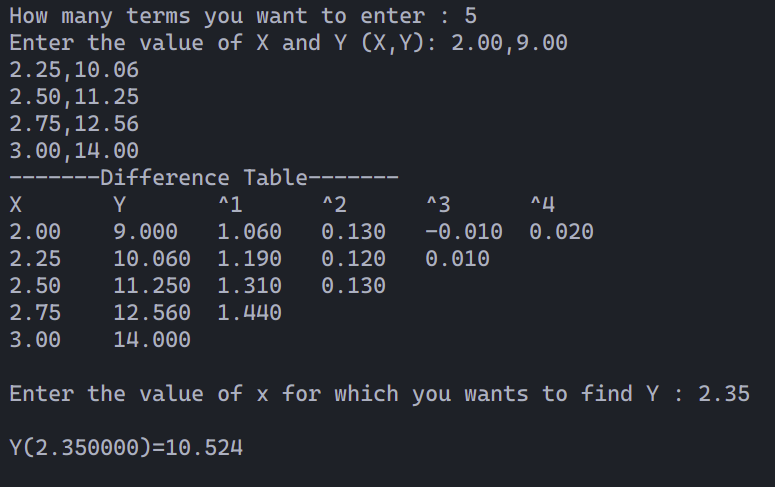
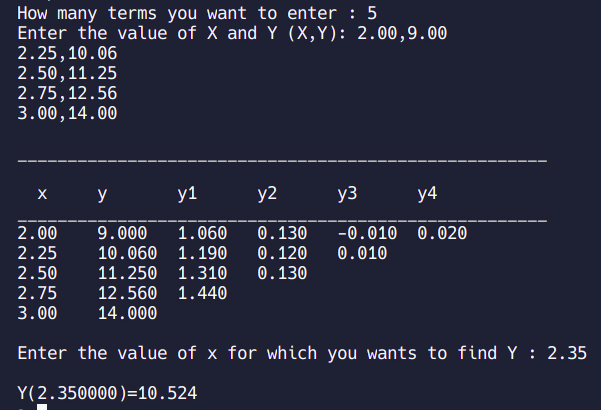
Add Numerical Methods

Changed region(s): [[0.0, 0.0, 0.9884, 1.0]]

diff --git a/Numerical_Methods/codes/Q07.c b/Numerical_Methods/codes/Q07.c
@@ -1,0 +1,57 @@
+/*
+Write a C Program to find the root of the equation X^3 - x -3 = 0 using Newton Raphson Mehtod.
+*/
+
+#include<stdio.h>
+#include<math.h>
+#include<stdlib.h>
+
+#define  f(x)  pow(x,3) - x - 3
+#define  g(x)   3*pow(x,2) - 1
+
+int main()
+{
+	 float x0, x1, f0, f1, g0, e;
+	 int step = 1, N;
+
+	 printf("\nEnter initial guess: ");
+	 scanf("%f", &x0);
+	 printf("Enter tolerable error: ");
+	 scanf("%f", &e);
+	 printf("Enter maximum iteration: ");
+	 scanf("%d", &N);
+	 /* Implementing Newton Raphson Method */
+	 printf("\nStep\t\tx0\t\t\tf(x0)\t\tx1\t\tf(x1)\n");
+	 do
+	 {
+		  g0 = g(x0);
+		  f0 = f(x0);
+		  if(g0 == 0.0)
+		  {
+			   printf("Mathematical Error.");
+			   exit(0);
+		  }
+
+		
+		  x1 = x0 - f0/g0;
+
+		
+		  printf("%d\t\t%f\t%f\t%f\t%f\n",step,x0,f0,x1,f1);
+		  x0 = x1;
+		  
+		  step = step+1;
+		
+		  if(step > N)
+		  {
+			   printf("Not Convergent.");
+			   exit(0);
+		  }
+		  
+		  f1 = f(x1);
+		  
+	 }while(fabs(f1)>e);
+	
+	 printf("\nRoot is: %f", x1);
+  printf ("\n");
+  return 0;
+}

diff --git a/Numerical_Methods/codes/Q06.c b/Numerical_Methods/codes/Q06.c
@@ -1,0 +1,53 @@
+/* Write a C Program to find the root of the equation
+X^3 + X^2 + X + 7 = 0 using Bisection Method
+*/
+
+#include<stdio.h>
+#include<math.h>
+
+#define f(x) pow(x,3)+pow(x,2)+x+7
+
+int main()
+{
+	 float x0, x1, x2, f0, f1, f2, e;
+	 int step = 1;
+
+	 up:
+	 printf("\nEnter two initial guesses:\n");
+	 scanf("%f%f", &x0, &x1);
+	 printf("Enter tolerable error:\n");
+	 scanf("%f", &e);
+
+	 f0 = f(x0);
+	 f1 = f(x1);
+
+	 if( f0 * f1 > 0.0)
+	 {
+		  printf("Incorrect Initial Guesses.\n");
+		  goto up;
+	 }
+     /* Implementing Newton Bisection Method */
+	 printf("\nStep\t\tx0\t\t\tx1\t\t\tx2\t\t\tf(x2)\n");
+	 do
+	 {
+		  x2 = (x0 + x1)/2;
+		  f2 = f(x2);
+		
+		  printf("%d\t\t%f\t%f\t%f\t%f\n",step, x0, x1, x2, f2);
+		
+		  if( f0 * f2 < 0)
+		  {
+			   x1 = x2;
+			   f1 = f2;
+		  }
+		  else
+		  {
+			   x0 = x2;
+			   f0 = f2;
+		  }
+		  step = step + 1;
+	 }while(fabs(f2)>e);
+	 printf("\nRoot is: %f", x2);
+  printf("\n");
+  return 0;
+}

diff --git a/Numerical_Methods/codes/Q01.c b/Numerical_Methods/codes/Q01.c
@@ -6,13 +6,13 @@ f(x):	9.00	10.06	11.25	12.56	14.00
 
 #include <math.h>
 #include <stdio.h>
-int	main(void)
+int	main()
 {
 	float x[10], y[10][10], h, u1, u, fx, fy, fact;
 	int i, j, n, ch = 30;
 	printf("How many terms you want to enter : ");
 	scanf("%d", &n);
-	printf("Enter the value of X and Y (X,Y): ");
+	printf("Enter the value of X and Y (X,Y): ");    
 	for (i = 0; i < n; i++)
 	{
 		scanf("%f,%f", &x[i], &y[i]);
@@ -24,11 +24,10 @@ int	main(void)
 			y[i][j] = y[i + 1][j - 1] - y[i][j - 1];
 		}
 	}
-	printf("-------Difference Table-------\n");
-	printf("X	Y");
-	for (i = 0; i < n - 1; i++)
-		printf("\t%c^%d", ch, i + 1);
-	printf("\n");
+	
+  	printf("\n_____________________________________________________\n");
+	printf("\n  x\t    y\t    y1\t    y2\t    y3\t    y4");
+	printf("\n_____________________________________________________\n");
 	for (i = 0; i < n; i++)
 	{
 		printf("%.2f", x[i]);

diff --git a/Numerical_Methods/codes/Q02.c b/Numerical_Methods/codes/Q02.c
@@ -7,8 +7,8 @@ f(x):   9.75    12.75   15.70   19.52   23.75
 */
 
 #include <stdio.h>
-int		fact(int);
-void	main(void)
+int	fact(int);
+void main()
 {
 	int n, i, j, ch = 30;
 	float arr[10][11], px = 1, x, y, p, h;
@@ -27,10 +27,9 @@ void	main(void)
 		for (i = 0; i < n - 1; i++)
 			arr[i][j] = arr[i + 1][j - 1] - arr[i][j - 1];
 	}
-	printf("\nThe difference table");
-	printf("\n\tX \tY");
-	for (i = 0; i < n - 1; i++)
-		printf("\t%c^%d", ch, i + 1);
+  	printf("\n_____________________________________________________\n");
+	printf("\n\t  x\t    y\t    y1\t    y2\t    y3\t    y4");
+	printf("\n_____________________________________________________\n");
 	for (i = 0; i < n; i++)
 	{
 		printf("\n");
@@ -57,3 +56,5 @@ int	fact(int n)
 		f = f * i;
 	return (f);
 }
+	
+

diff --git a/Numerical_Methods/codes/Q05.c b/Numerical_Methods/codes/Q05.c
@@ -1,0 +1,36 @@
+/* Write a C Program to evaluate Integration (2-1) X / (1 + X) dx using Simpson's 1/3rd Rule with 6 intervals
+*/
+
+#include <math.h>
+#include <stdio.h>
+	
+double f(double x)
+{
+	return (x / (1 + x));
+}
+
+int	main()
+{
+	int n, i;
+	double a, b, h, x, sum = 0, integral;
+
+	printf("\nEnter the no. of sub-intervals(EVEN): ");
+	scanf("%d", &n);
+	printf("\nEnter the initial limit: ");
+	scanf("%lf", &a);
+	printf("\nEnter the final limit: ");
+	scanf("%lf", &b);
+	
+	h = fabs(b - a) / n;
+	for (i = 1; i < n; i++)
+	{
+		x = a + i * h;
+		if (i % 2 == 0)
+			sum = sum + 2 * f(x);
+		else
+			sum = sum + 4 * f(x);
+	}
+	integral = (h / 3) * (f(a) + f(b) + sum);
+
+	printf("\nThe integral is: %lf\n", integral);
+}

diff --git a/Numerical_Methods/codes/Q04.c b/Numerical_Methods/codes/Q04.c
@@ -1,0 +1,34 @@
+//Write a C Program to evaluate Integration (2-1) 1/(1+x^2) dx using Trapezoidal rule with 6 intervals
+
+#include <stdio.h>
+#include <math.h>
+
+double	f(double x)
+{
+	return 1 / (1 + pow(x, 2));
+}
+
+int main()
+{
+	int n, i;
+	double a, b, h, x, sum = 0, integral;
+
+	printf("\nEnter the no. of sub-intervals: ");
+	scanf("%d", &n);
+	printf("\nEnter the initial limit: ");
+	scanf("%lf", &a);
+	printf("\nEnter the final limit: ");
+	scanf("%lf", &b);
+	
+	h = fabs(b - a) / n;
+	for (i = 1; i < n; i++)
+	{
+		x = a + i * h;
+		sum = sum + f(x);
+	}
+	integral = (h / 2) * (f(a) + f(b) + 2 * sum);
+	
+	printf("\nThe integral is: %lf\n", integral);
+	return 0;
+}
+

diff --git a/Numerical_Methods/codes/Q03.c b/Numerical_Methods/codes/Q03.c
@@ -7,7 +7,7 @@ f(x):   8.85    11.45   20.66   22.85   38.60
 
 #include <math.h>
 #include <stdio.h>
-int	main(void)
+int	main()
 {
 	float x[10], y[10][10], sum, p, u, temp;
 	int i, n, j, k = 0, f, m;
